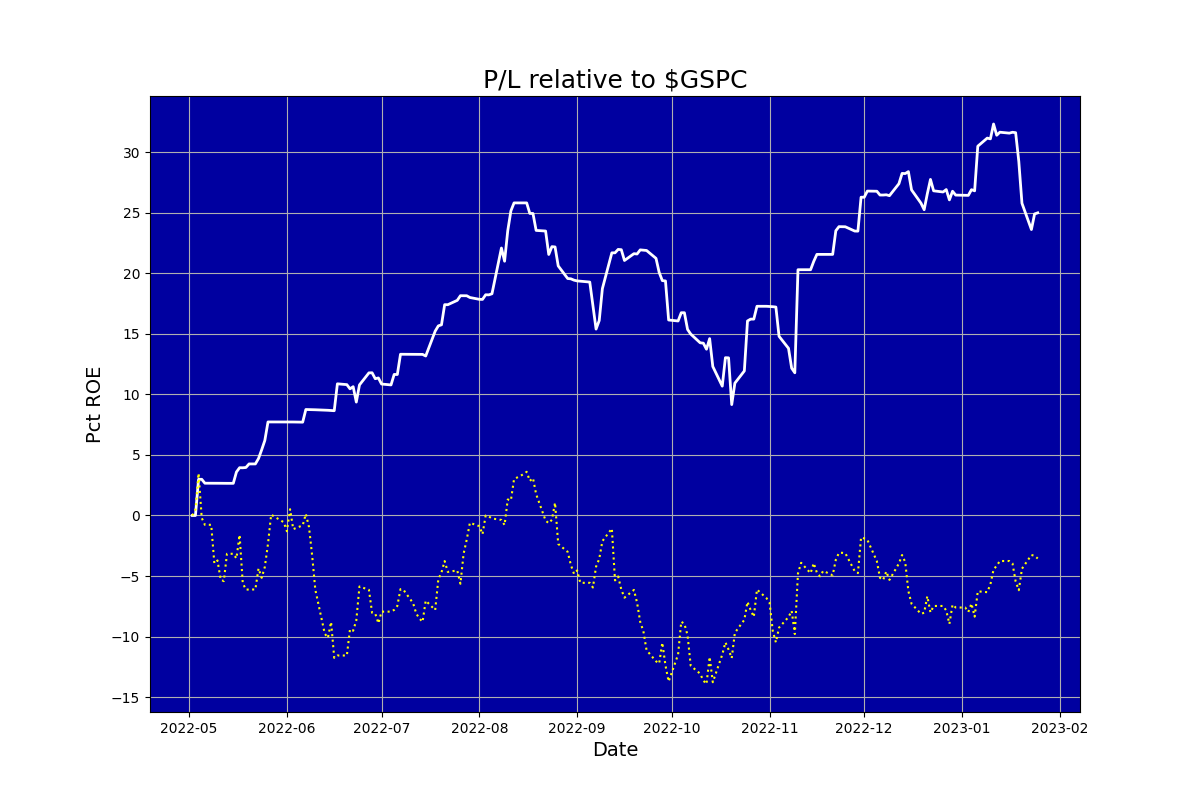
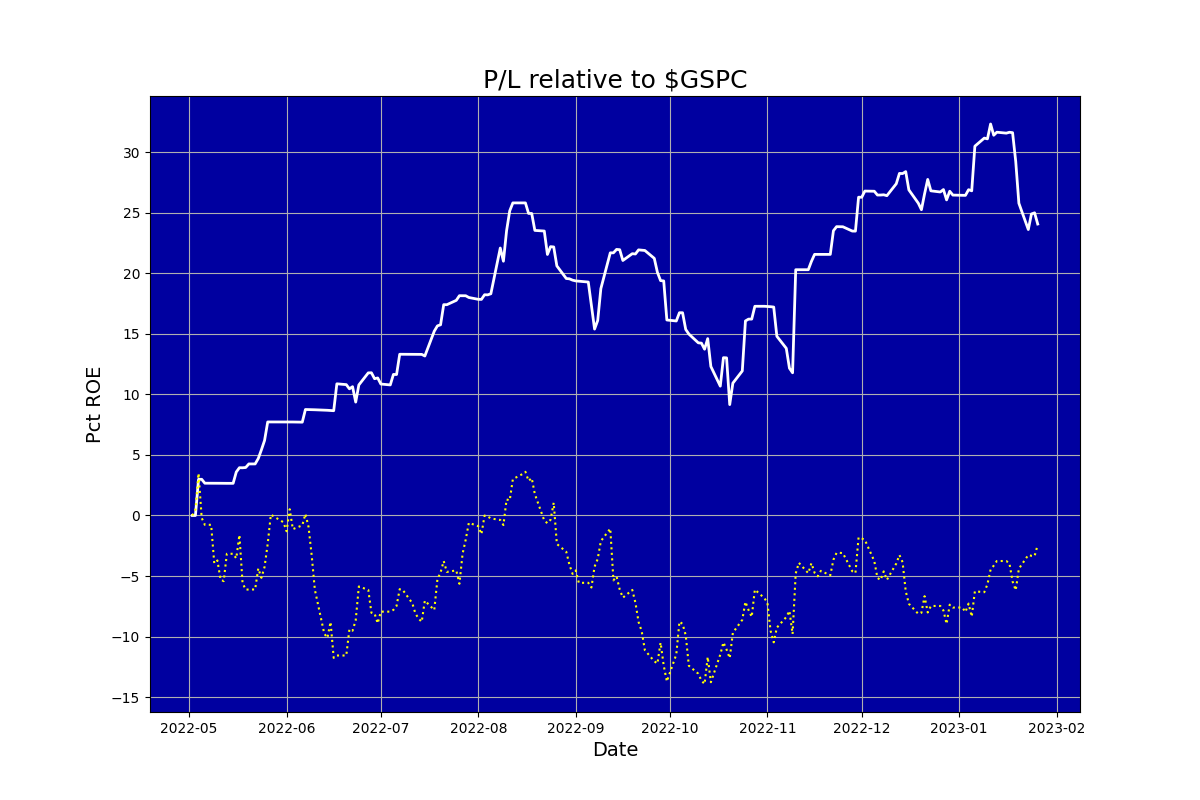
Updated

diff --git a/ig_report.html b/ig_report.html
@@ -1,1 +1,1 @@
-<html><body><center><h1>Auriel (never knowingly overbought)</h1></center><table cols=2><tr><td><img src=ig_pl.png></td><td><table cols=2><tr><td colspan=2><b><br>Snapshot</b></td></tr><tr><td>Last updated:&nbsp;&nbsp;&nbsp;</td><td>2023-01-25 15:56</td></tr><tr><td>Margin:&nbsp;&nbsp;&nbsp;</td><td>0.15</td></tr><tr><td>Cushion:&nbsp;&nbsp;&nbsp;</td><td>-5221.09</td></tr><tr><td>Last closed trade:&nbsp;&nbsp;&nbsp;</td><td>2023-01-25</td></tr><tr><td colspan=2><b><br>Positions</b></td></tr><tr><td>Mean days to new high:&nbsp;&nbsp;&nbsp;</td><td>11.30</td></tr><tr><td colspan=2><b><br>Trades</b></td></tr><tr><td>Traded days:&nbsp;&nbsp;&nbsp;</td><td>195</td></tr><tr><td>Profitable days pct:&nbsp;&nbsp;&nbsp;</td><td>35.38</td></tr><tr><td>Days beat S&P pct:&nbsp;&nbsp;&nbsp;</td><td>56.76</td></tr><tr><td>Profitable months pct:&nbsp;&nbsp;&nbsp;</td><td>77.78</td></tr><tr><td colspan=2><b><br>Performance</b></td></tr><tr><td>Pct median monthly ROE:&nbsp;&nbsp;&nbsp;</td><td>1.43</td></tr><tr><td>Pct annualised ROE:&nbsp;&nbsp;&nbsp;</td><td>32.04</td></tr><tr><td colspan=2><b><br>Risk</b></td></tr><tr><td>Volatility pct:&nbsp;&nbsp;&nbsp;</td><td>19.94</td></tr><tr><td>Benchmark volatility pct:&nbsp;&nbsp;&nbsp;</td><td>24.35</td></tr><tr><td>Sharpe ratio (RFR 5.0%):&nbsp;&nbsp;&nbsp;</td><td>1.45</td></tr><tr><td>Sortino ratio (RFR 5.0%):&nbsp;&nbsp;&nbsp;</td><td>2.25</td></tr><tr><td>Calmar ratio:&nbsp;&nbsp;&nbsp;</td><td>1.92</td></tr><tr><td>Worst drawdown pct:&nbsp;&nbsp;&nbsp;</td><td>-0.17</td></tr><tr><td>Recovery days from worst drawdown:&nbsp;&nbsp;&nbsp;</td><td>29.00</td></tr><tr><td>Beat benchmark +ve periods pct:&nbsp;&nbsp;&nbsp;</td><td>80.58</td></tr><tr><td>Beat benchmark -ve periods pct:&nbsp;&nbsp;&nbsp;</td><td>93.55</td></tr><tr><td>Correlation with benchmark:&nbsp;&nbsp;&nbsp;</td><td>0.38</td></tr></table></td></tr></table></body></html>
+<html><body><center><h1>Auriel (never knowingly overbought)</h1></center><table cols=2><tr><td><img src=ig_pl.png></td><td><table cols=2><tr><td colspan=2><b><br>Snapshot</b></td></tr><tr><td>Last updated:&nbsp;&nbsp;&nbsp;</td><td>2023-01-26 15:56</td></tr><tr><td>Margin:&nbsp;&nbsp;&nbsp;</td><td>0.00</td></tr><tr><td>Cushion:&nbsp;&nbsp;&nbsp;</td><td>-5309.20</td></tr><tr><td>Last closed trade:&nbsp;&nbsp;&nbsp;</td><td>2023-01-26</td></tr><tr><td colspan=2><b><br>Positions</b></td></tr><tr><td>Mean days to new high:&nbsp;&nbsp;&nbsp;</td><td>11.28</td></tr><tr><td colspan=2><b><br>Trades</b></td></tr><tr><td>Traded days:&nbsp;&nbsp;&nbsp;</td><td>196</td></tr><tr><td>Profitable days pct:&nbsp;&nbsp;&nbsp;</td><td>35.20</td></tr><tr><td>Days beat S&P pct:&nbsp;&nbsp;&nbsp;</td><td>56.99</td></tr><tr><td>Profitable months pct:&nbsp;&nbsp;&nbsp;</td><td>77.78</td></tr><tr><td colspan=2><b><br>Performance</b></td></tr><tr><td>Pct median monthly ROE:&nbsp;&nbsp;&nbsp;</td><td>1.43</td></tr><tr><td>Pct annualised ROE:&nbsp;&nbsp;&nbsp;</td><td>30.70</td></tr><tr><td colspan=2><b><br>Risk</b></td></tr><tr><td>Volatility pct:&nbsp;&nbsp;&nbsp;</td><td>19.93</td></tr><tr><td>Benchmark volatility pct:&nbsp;&nbsp;&nbsp;</td><td>24.36</td></tr><tr><td>Sharpe ratio (RFR 5.0%):&nbsp;&nbsp;&nbsp;</td><td>1.38</td></tr><tr><td>Sortino ratio (RFR 5.0%):&nbsp;&nbsp;&nbsp;</td><td>2.15</td></tr><tr><td>Calmar ratio:&nbsp;&nbsp;&nbsp;</td><td>1.84</td></tr><tr><td>Worst drawdown pct:&nbsp;&nbsp;&nbsp;</td><td>-0.17</td></tr><tr><td>Recovery days from worst drawdown:&nbsp;&nbsp;&nbsp;</td><td>29.00</td></tr><tr><td>Beat benchmark +ve periods pct:&nbsp;&nbsp;&nbsp;</td><td>80.14</td></tr><tr><td>Beat benchmark -ve periods pct:&nbsp;&nbsp;&nbsp;</td><td>93.55</td></tr><tr><td>Correlation with benchmark:&nbsp;&nbsp;&nbsp;</td><td>0.37</td></tr></table></td></tr></table></body></html>
